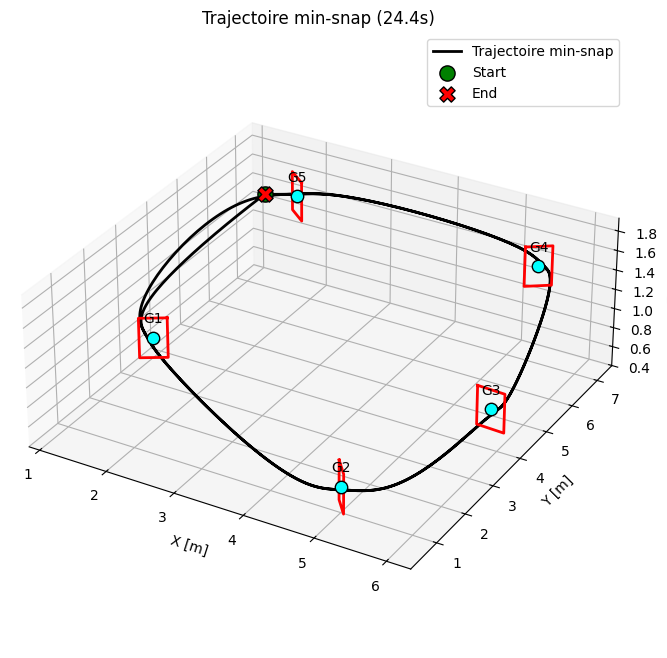
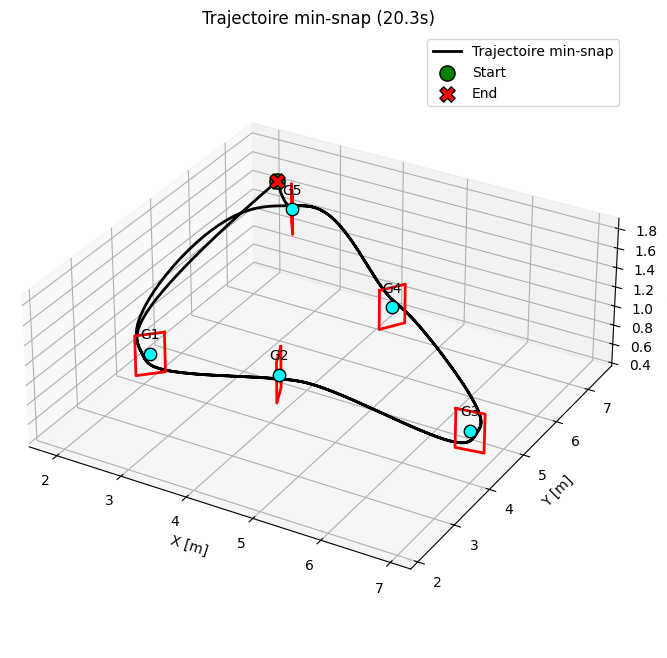
tuned lateral_offset, bonne verion mais peut buguer dans quelques exs

diff --git a/controllers/main/assignment/my_assignment.py b/controllers/main/assignment/my_assignment.py
@@ -821,7 +821,7 @@ class MyAssignment:
                 start_pos = np.array([pos[0], pos[1], CRUISE_ALT])
                 waypoints = self._build_lap2_waypoints_shrunk(
                     self.gate_positions, start_pos,
-                    lateral_offset=1
+                    lateral_offset=0.1
                 )
                 end_pos = start_pos.copy()
                 self.trajectory = self._compute_trajectory(
